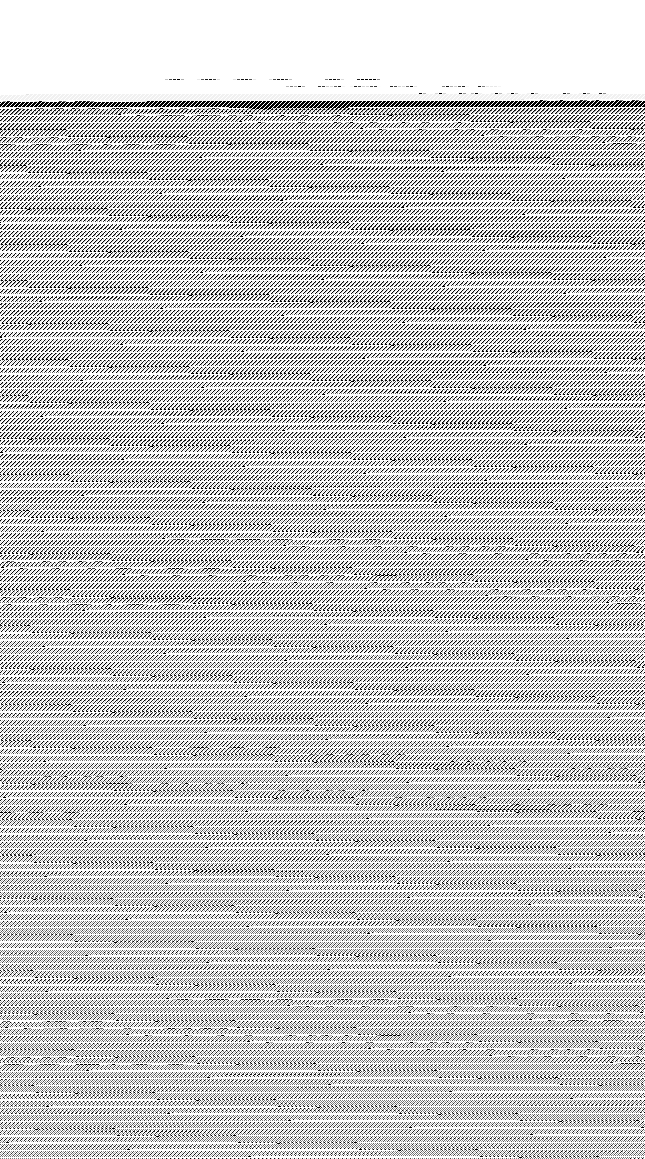
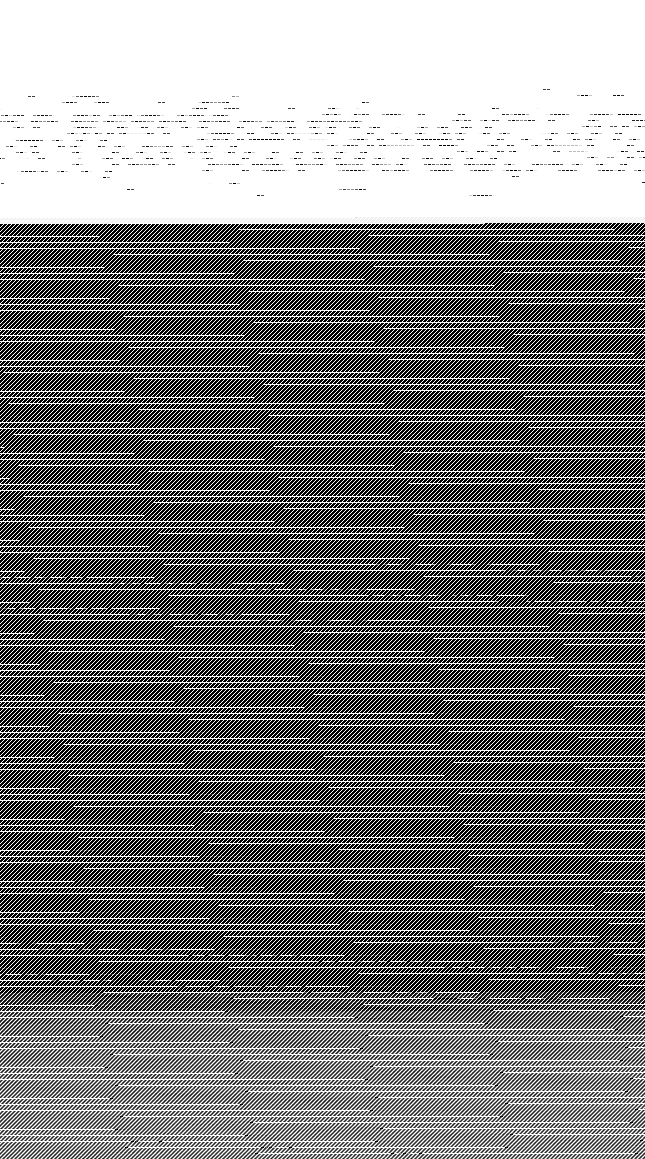
correctly resizes and converts to an array

diff --git a/train_utils.py b/train_utils.py
@@ -13,6 +13,7 @@ from sklearn.ensemble import RandomForestClassifier
 from PIL import Image
 from matplotlib import cm
 import copy
+from skimage.transform import resize
 
 """
 Training loop for cnn
@@ -135,24 +136,25 @@ def preprocess_data(dataset, batch_size=4):
 
     trainloader = DataLoader(dataset["train"], batch_size=batch_size)
     testloader = DataLoader(dataset["test"], batch_size=batch_size)
-    return trainloader, testloader                                                                                           
+    return trainloader, testloader    
+
+#this resizes the image and converts it to a numpy array                                                                                       
 
 def preprocess_data_random_forest(dataset):
-    i1 = np.asarray(dataset["train"][0]["image"])
+    i1 = dataset["train"][0]["image"]
+    #Rresize the image before converting to a numpy array
+    i1 = i1.resize((1159,645))
+    #convert to an array
+    i1 = np.asarray(i1)
+    #check correctness
+    print("after")
     print(i1.size)
     print(i1.shape)
+    #verify that the array still converts back to an image correctly
     data = Image.fromarray(i1) 
+    data.save('spectrogram3.png')
+    #this is working, image to array and back 
 
-    def resize(image):
-        #print(image)
-        c = copy.copy(image)
-        imResize = np.resize(c, (1159,645))
-        print(imResize)
-        data = Image.fromarray(imResize) 
-        data.save('foo2.png') 
-        return imResize
-    
-    resize(i1)
 
     # def transforms(examples):
     #     #c = copy.copy(examples["image"])
